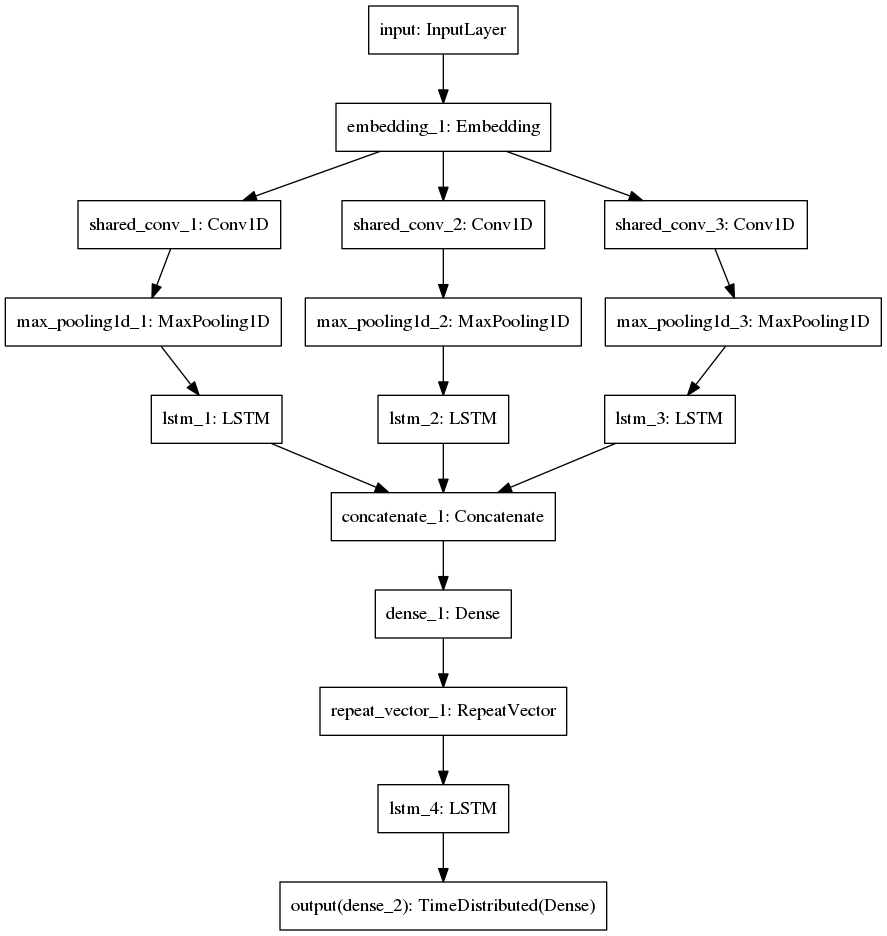
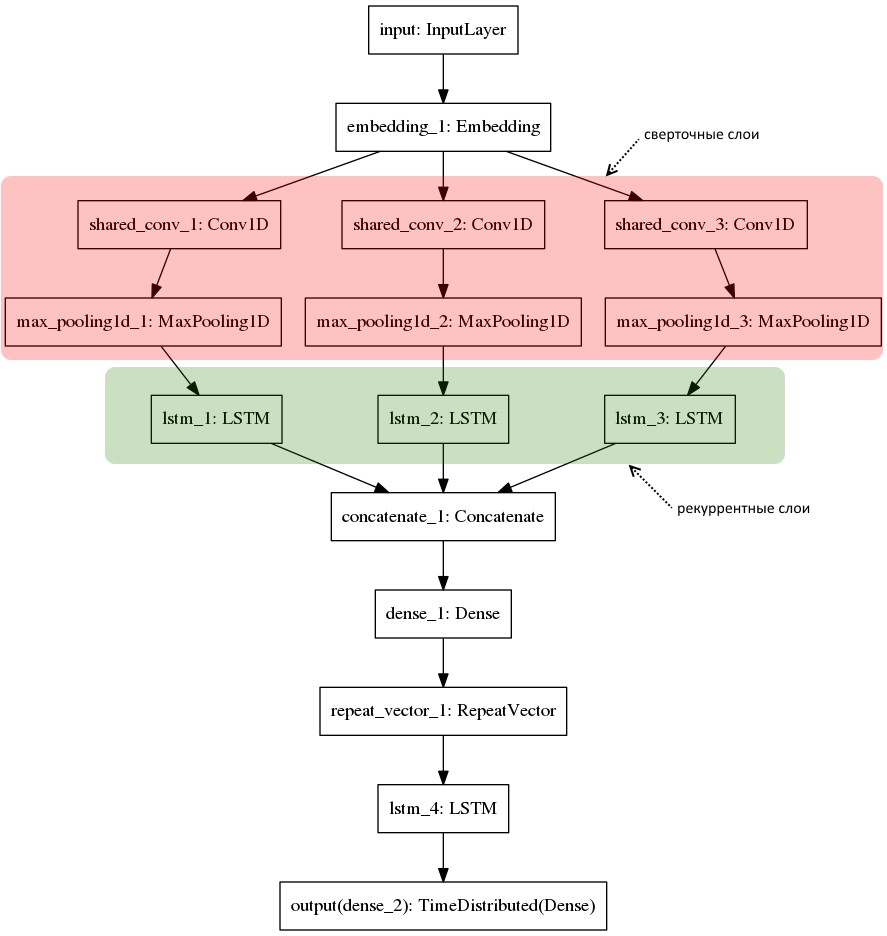
правки в документации для модели wordchar2vector

Changed region(s): [[0.0, 0.1549, 1.0, 0.5267], [0.761, 0.5267, 0.9132, 0.5577], [0.7306, 0.1239, 0.8523, 0.1549]]

diff --git a/PyModels/trainers/README.wordchar2vector.md b/PyModels/trainers/README.wordchar2vector.md
@@ -15,11 +15,6 @@
 
 Архитектура нейросети задается опцией --arch_type при запуске программы [wordchar2vector.py](https://github.com/Koziev/chatbot/blob/master/PyModels/wordchar2vector.py).
 
-Только сверточные слои:
-```
---arch_type cnn
-```
-
 Простой и эффективный сжимающий рекуррентный автоэнкодер на базе LSTM:
 ```
 --arch_type rnn
@@ -28,6 +23,11 @@
 Аналогичный вариант с bidirectional LSTM в кодирующей части сетки включается опцией:
 ```
 --arch_type bidir_lstm
+```
+
+Только сверточные слои:
+```
+--arch_type cnn
 ```
 
 
@@ -71,7 +71,7 @@
 python wordchar2vector.py --train 1 --i ../tmp/known_words.txt --o ../tmp/wordchar2vector.dat --model_dir ../tmp --arch_type rnn --tunable_char_embeddings 0 --char_dims 0 --batch_size 250 --dims 56
 ```
 
-Как видно по кривым обучения, данная архитектура дает хорошее качество при достаточно быстрой
+Как видно по кривым обучения (см. ниже), данная архитектура дает хорошее качество при достаточно быстрой
 сходимости.
 
 Вместо одного слоя LSTM в кодирующей части можно использовать bidirectional LSTM, заменив
@@ -142,6 +142,11 @@ python wordchar2vector.py --train 1 --i ../tmp/known_words.txt --o ../tmp/wordch
 Качество и сложность модели и использующих ее алгоритмов регулируется параметром "размер вектора слова",
 который задается опцией --dims NN в командой строке. По умолчанию этот параметр равен 56.
 
+### Настраиваемость векторов символов
+
+---todo---
+
+
 ### Тренировка модели wordchar2vector
 
 Для тренировки посимвольных встраиваний необходимо выполнить два шага.
@@ -176,7 +181,7 @@ python ../PyModels/wordchar2vector.py --train 1 --i ../tmp/known_words.txt --o .
 файла будут векторизованы и сохранены в выходном файле.
 
 ```
-python ../PyModels/wordchar2vector.py --train 0 --vectorize 1 --i ../tmp/known_words.txt --o ../tmp/wordchar2vector.dat --model_dir ../tmp --dims 56
+python ../PyModels/wordchar2vector.py --train 0 --vectorize 1 --i ../tmp/known_words.txt --o ../tmp/wordchar2vector.dat --model_dir ../tmp
 ```
 
 Этот режим позволяет быстро векторизовать лексикон после добавления новых
